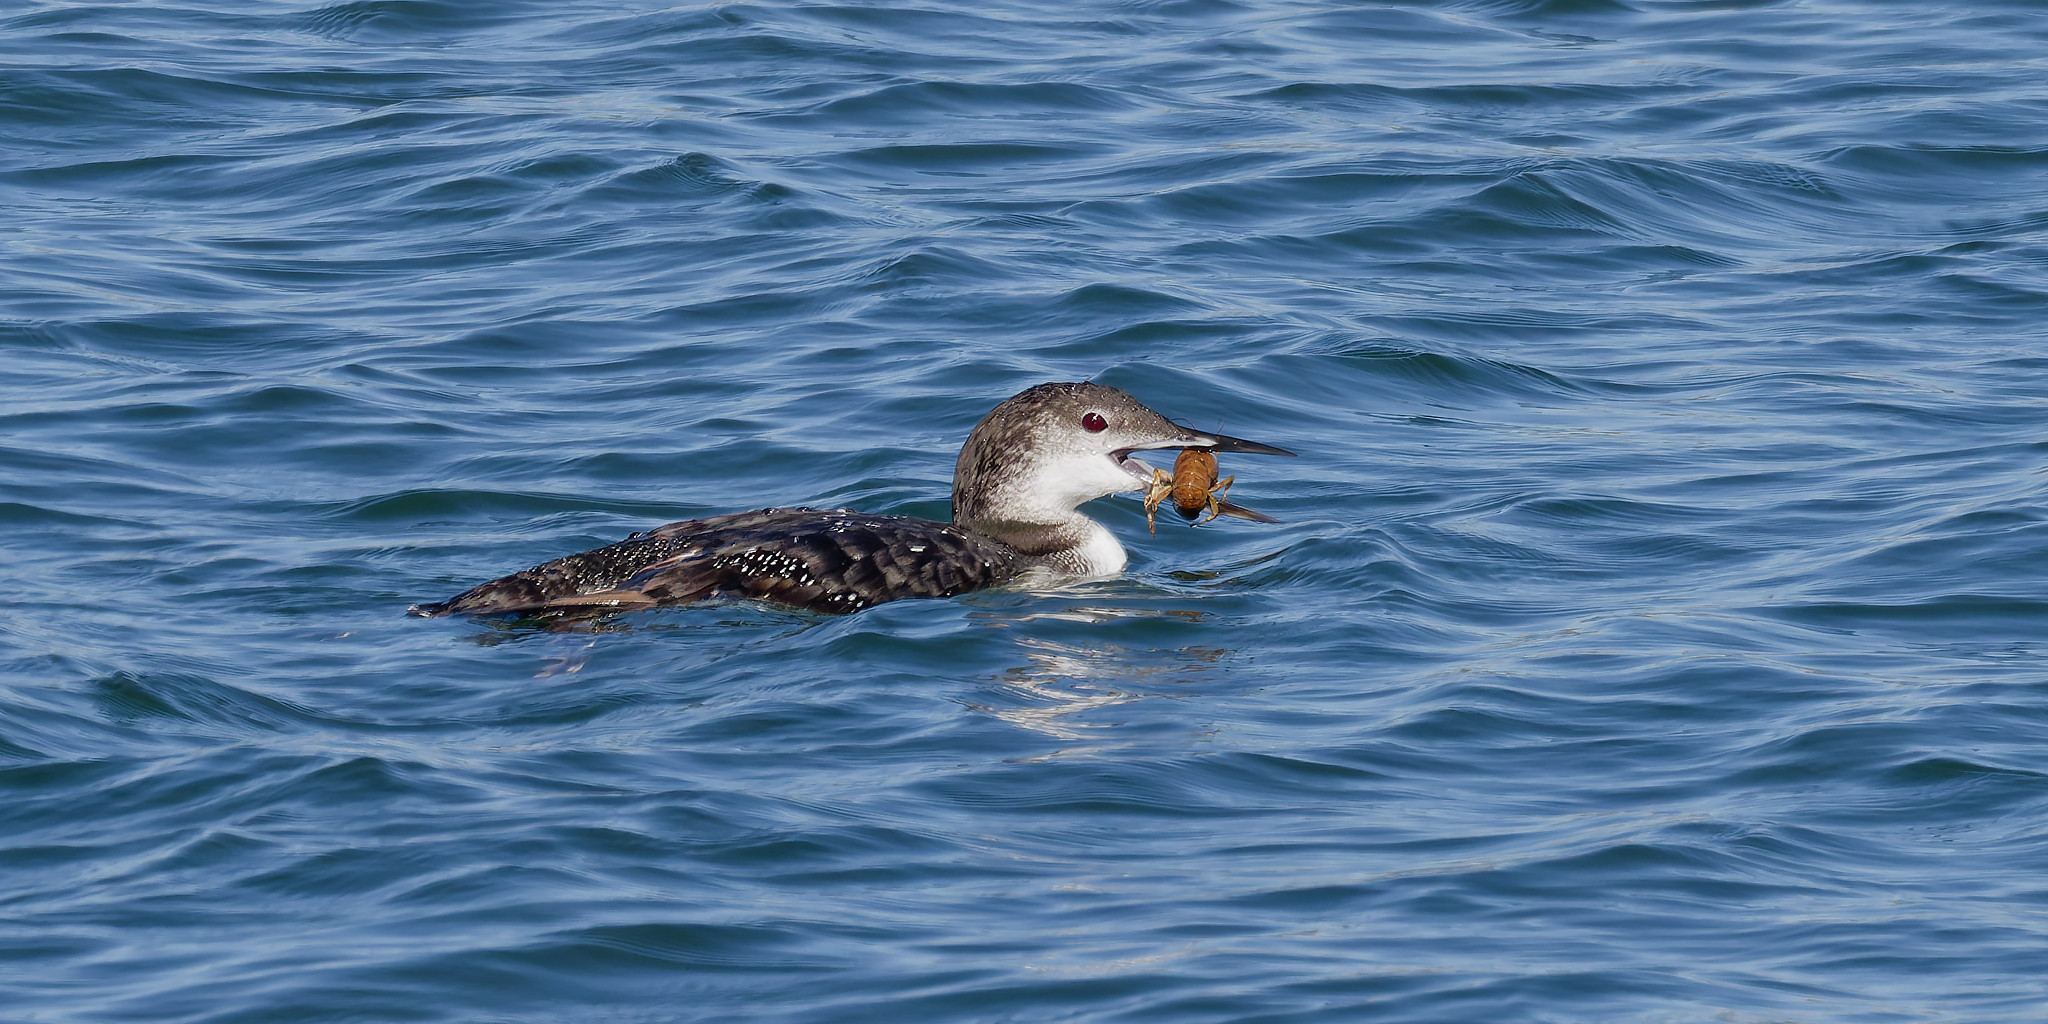
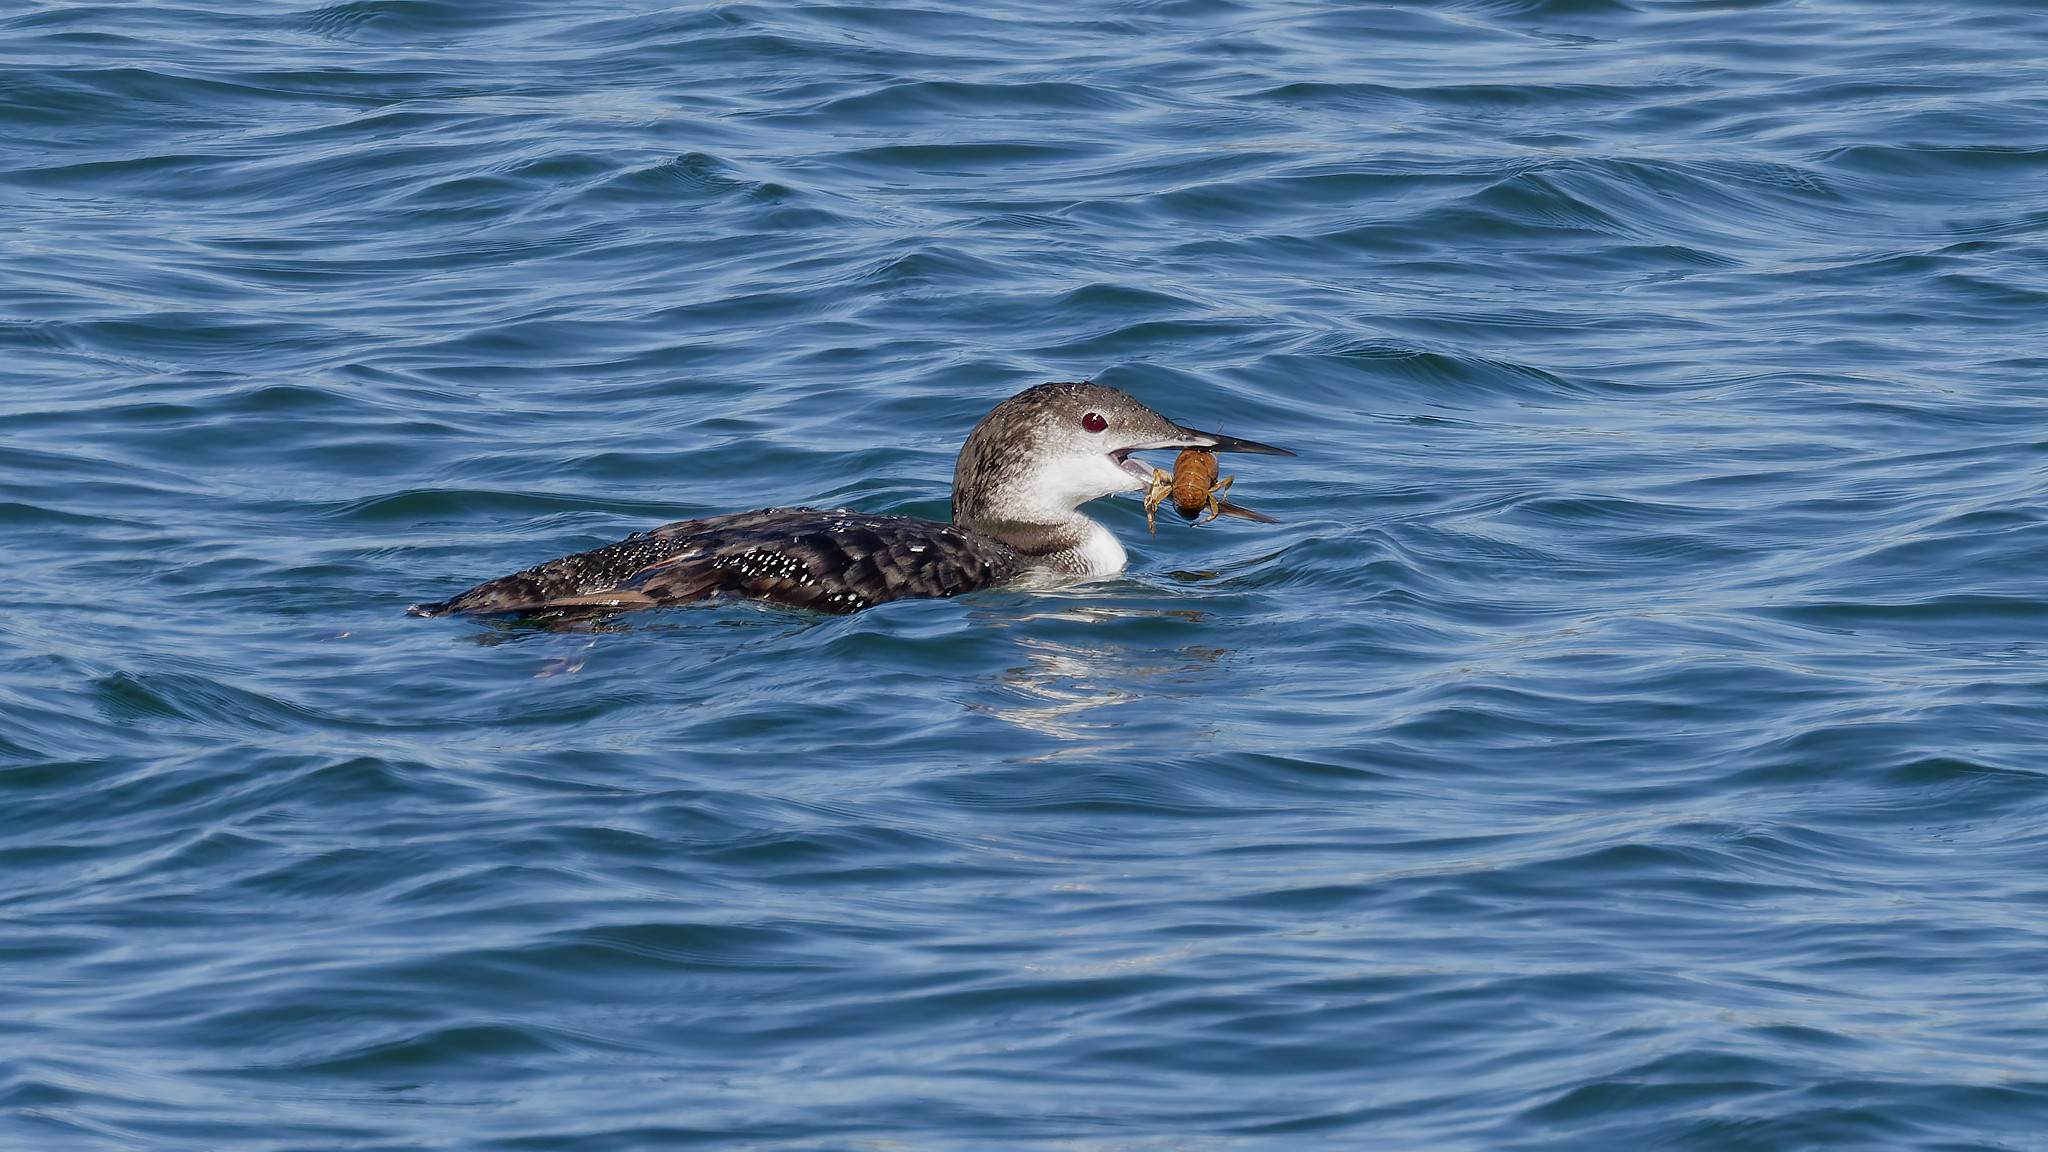
wood ducks etc

diff --git a/src/routes/birds/ducks/+page.svelte b/src/routes/birds/ducks/+page.svelte
@@ -141,6 +141,15 @@
 	import d139 from '$lib/images/birds/2026/10/2026-10-22-144024.jpg?enhanced';
 	import d140 from '$lib/images/birds/2026/10/2026-10-22-145153-1.jpg?enhanced';
 	import d141 from '$lib/images/birds/2026/10/2026-10-22-170501.jpg?enhanced';
+	import d142 from '$lib/images/birds/2026/10/2026-10-26-152453.jpg?enhanced';
+	import d143 from '$lib/images/birds/2026/10/2026-10-26-152613.jpg?enhanced';
+	import d144 from '$lib/images/birds/2026/10/2026-10-26-152309.jpg?enhanced';
+	import d145 from '$lib/images/birds/2026/10/2026-10-26-152744.jpg?enhanced';
+	import d146 from '$lib/images/birds/2026/10/2026-10-26-152929.jpg?enhanced';
+	import d147 from '$lib/images/birds/2026/10/2026-10-26-152241.jpg?enhanced';
+	import d148 from '$lib/images/birds/2026/10/2026-10-26-152301.jpg?enhanced';
+	import d149 from '$lib/images/birds/2026/10/2026-10-25-131139.jpg?enhanced';
+	import d150 from '$lib/images/birds/2026/10/2026-10-26-163026.jpg?enhanced';
 
 	export const imagesArray = [
 		// DUCKS
@@ -158,6 +167,10 @@
 			{
 				image: d118,
 				caption: '<strong>Bufflehead</strong> <br/>Newell County, Alberta. October, 2026'
+			},
+			{
+				image: d149,
+				caption: '<strong>Buffleheads</strong> <br/>Newell County, Alberta. October, 2026'
 			}
 		],
 		// CANVASBACK
@@ -295,7 +308,11 @@
 			{
 				image: d113,
 				caption:
-					'Male and female <strong>Mallards</strong> and young  <br/>Newell County, Alberta. October, 2026'
+					'Male and female <strong>Mallards</strong><br/>Newell County, Alberta. October, 2026'
+			},
+			{
+				image: d150,
+				caption: 'Male <strong>Mallard</strong> <br/>Newell County, Alberta. October, 2026'
 			}
 		],
 		// COMMON MERGANSER
@@ -478,6 +495,42 @@
 		// WOOD DUCK
 		[
 			{
+				image: d146,
+				caption:
+					'Female(L) and male(R) <strong>Wood Ducks</strong>. <br/>Inglewood Bird Sanctuary, Calgary. October, 2026'
+			},
+			{
+				image: d147,
+				caption:
+					'Male and female <strong>Wood Ducks</strong>. <br/>Inglewood Bird Sanctuary, Calgary. October, 2026'
+			},
+			{
+				image: d148,
+				caption:
+					'Male and female <strong>Wood Ducks</strong>. <br/>Inglewood Bird Sanctuary, Calgary. October, 2026'
+			},
+			{
+				image: d142,
+				caption:
+					'Female <strong>Wood Duck</strong>. <br/>Inglewood Bird Sanctuary, Calgary. October, 2026'
+			},
+			{
+				image: d143,
+				caption:
+					'A male <strong>Wood Duck</strong>. <br/>Inglewood Bird Sanctuary, Calgary. October, 2026'
+			},
+			{
+				image: d144,
+				caption:
+					'A male <strong>Wood Duck</strong>. <br/>Inglewood Bird Sanctuary, Calgary. October, 2026'
+			},
+			{
+				image: d145,
+				caption:
+					'A male <strong>Wood Duck</strong>. <br/>Inglewood Bird Sanctuary, Calgary. October, 2026'
+			},
+
+			{
 				image: d06,
 				caption:
 					'An eclipse male <strong>Wood Duck</strong>. <br/>Inglewood Bird Sanctuary, Calgary. July, 2026'
@@ -488,7 +541,8 @@
 					'An eclipse male <strong>Wood Duck</strong>. <br/>Inglewood Bird Sanctuary, Calgary. July, 2026'
 			}
 		],
-		// SWANS
+
+		// SWANS //////////////////////////////////////////////////////////////////////////////////////////
 
 		// TRUMPETER SWAN
 		[

diff --git a/src/lib/styling/app.css b/src/lib/styling/app.css
@@ -1,63 +1,70 @@
 html,
 body {
-  box-sizing: border-box;
-  margin: 0;
-  padding: 0;
-  overflow-y: hidden;
-  font-size: 20px;
+	box-sizing: border-box;
+	margin: 0;
+	padding: 0;
+}
+
+html {
+	overflow-y: auto;
+	scrollbar-gutter: stable;
 }
 
 *,
 *:before,
 *:after {
-  box-sizing: inherit;
+	box-sizing: inherit;
 }
 
 .top-matter {
-  display: flex;
-  font-family: cordelius;
-  font-size: 275%;
-  font-weight: bold;
-  height: 2em;
-  justify-content: space-between;
-  min-height: 2rem;
-  padding: 0.25em;
-  text-align: left;
+	display: flex;
+	font-family: cordelius;
+	font-size: 275%;
+	font-weight: bold;
+	height: 2em;
+	justify-content: space-between;
+	min-height: 2rem;
+	padding: 0.25em;
+	text-align: left;
 }
 
 .bird-type-page-links {
-  display: flex;
-  flex-wrap: wrap;
-  justify-content: space-evenly;
-  /* background: pink; */
-  width: 90%;
-  margin-inline: auto;
-  margin-top: 3em;
-  gap: 1em;
-  /* border: 3px solid green; */
+	display: flex;
+	flex-wrap: wrap;
+	justify-content: space-evenly;
+	/* background: pink; */
+	width: 90%;
+	margin-inline: auto;
+	margin-top: 3em;
+	gap: 1em;
+	/* border: 3px solid green; */
 }
 .bird-type-page-links a:link,
 .bird-type-page-links a:visited,
 .bird-type-page-links a:active {
-  text-decoration: none;
-  color: inherit;
+	text-decoration: none;
+	color: inherit;
 }
 .bird-type-page-links .photo-link {
-  font-family: "text";
-  margin-bottom: 2em;
-  text-align: center;
-  width: 15em;
-  max-width: 16em;
+	font-family: 'text';
+	margin-bottom: 2em;
+	text-align: center;
+	width: 15em;
+	max-width: 16em;
 }
 
 .albumTitle {
-  position: absolute;
-  font-family: cordelius;
-  font-size: 150%;
-  font-weight: bold;
-  top: clamp(10px, 0.875vw, 25px);
-  left: 50%;
-  text-align: center;
-  transform: translate(-50%, 0);
-  width: 70%;
-}/*# sourceMappingURL=app.css.map */
+	position: absolute;
+	font-family: cordelius;
+	font-size: 150%;
+	font-weight: bold;
+	top: clamp(10px, 0.875vw, 25px);
+	left: 50%;
+	text-align: center;
+	transform: translate(-50%, 0);
+	width: 70%;
+}
+
+/* .slider-container {
+	background: pink;
+} */

diff --git a/src/routes/+page.svelte b/src/routes/+page.svelte
@@ -10,44 +10,67 @@
 	<link rel="icon" href={favicon} />
 </svelte:head>
 
-<div class="outer">
-	<div class="container">
+<!-- <div class="outer"> -->
+<div class="container">
+	<header>
 		<HomeIcon />
-		<div class="home-page-links">
+	</header>
+	<div class="wrapper">
+		<div class="home-page-links-container">
 			<a href="/birds">
 				<div class="photo-link">
-					<enhanced:img src={homeBird} alt="where are you" />
+					<enhanced:img src={homeBird} alt="cedar waxwing" />
 					Birds...
 				</div>
 			</a>
 
 			<!-- <a href="/jeannette">
-				<div class="photo-link">
-					<enhanced:img src={homeJeannette} alt="where are you" />
-					Jeannette Morgan (n&eacute;e&nbsp;Blanc)
-				</div>
-			</a> -->
+					<div class="photo-link">
+						<enhanced:img src={homeJeannette} alt="where are you" />
+						Jeannette Morgan (n&eacute;e&nbsp;Blanc)
+					</div>
+				</a> -->
 		</div>
 	</div>
 </div>
 
+<!-- </div> -->
+
 <style>
-	.outer {
+	/* .outer {
 		background: white;
 		height: 100%;
 		margin: 0;
 		padding: 0;
+	} */
+
+	header {
+		/* background: pink; */
+		/* margin-bottom: 1em; */
 	}
 
 	.container {
+		display: flex;
+		flex-direction: column;
 		height: 100vh;
 	}
-	.home-page-links {
+
+	.wrapper {
+		/* background: pink; */
+		flex: 1;
+		display: flex;
+		flex-direction: column;
+		justify-content: center;
+	}
+
+	.home-page-links-container {
 		display: flex;
 		justify-content: space-evenly;
 		width: 90%;
 		margin-inline: auto;
-		margin-top: 4em;
+		/* background: yellow; */
+		/* margin-top: 4em; */
+		/* border: 1px solid pink; */
 
 		a:link,
 		a:visited,

diff --git a/src/routes/birds/crows/+page.svelte b/src/routes/birds/crows/+page.svelte
@@ -1,12 +1,24 @@
 <script module>
 	// crows, jays and magpies
 	import c01 from '$lib/images/birds/2026/09/2026-09-02-173122-PR.jpg?enhanced';
+	import c02 from '$lib/images/birds/2026/10/2026-10-24-162900.jpg?enhanced';
+	import c03 from '$lib/images/birds/2026/10/2026-10-24-163301.jpg?enhanced';
 
 	export const imagesArray = [
 		[
 			{
 				image: c01,
 				caption: '<strong>Black-billed Magpie</strong>. <br/>Three Hills, Alberta. September 2026'
+			}
+		],
+		[
+			{
+				image: c02,
+				caption: 'A <strong>Common Raven</strong>. <br/>Newell County, Alberta. October 2026'
+			},
+			{
+				image: c03,
+				caption: '<strong>Common Ravens</strong>. <br/>Newell County, Alberta. October 2026'
 			}
 		]
 	];

diff --git a/src/routes/birds/loons/+page.svelte b/src/routes/birds/loons/+page.svelte
@@ -2,6 +2,7 @@
 	// larks
 	import l01 from '$lib/images/birds/2026/10/2026-10-04-143041.jpg?enhanced';
 	import l02 from '$lib/images/birds/2026/10/2026-10-19-141910.jpg?enhanced';
+	import l03 from '$lib/images/birds/2026/10/2026-10-24-154354.jpg?enhanced';
 
 	export const imagesArray = [
 		// COMMON LOONS
@@ -10,6 +11,11 @@
 				image: l01,
 				caption:
 					'<strong> Common Loon</strong>, with dinner.<br/>Rolling Hills Reservoir, Newell County, Alberta. October, 2026.'
+			},
+			{
+				image: l02,
+				caption:
+					'<strong> Common Loon</strong><br/>Rolling Hills Reservoir, Newell County, Alberta. October, 2026.'
 			},
 			{
 				image: l02,

diff --git a/src/lib/styling/app.scss b/src/lib/styling/app.scss
@@ -1,10 +1,19 @@
+// *::-webkit-scrollbar {
+// 	background: yellow;
+// }
+
 html,
 body {
 	box-sizing: border-box;
 	margin: 0;
 	padding: 0;
-	overflow-y: hidden;
-	font-size: 20px;
+	// font-size: 20px;
+	// font-size: 1vw;
+}
+
+html {
+	overflow-y: auto;
+	scrollbar-gutter: stable;
 }
 
 *,
@@ -74,7 +83,7 @@ body {
 }
 
 .slider-container {
-	// background: pink;
+	background: pink;
 	// border: 2px solid red;
 	// font-size: 2.5rem;
 	// @media (max-width: 600px) {

diff --git a/src/lib/components/HomeIcon.svelte b/src/lib/components/HomeIcon.svelte
@@ -26,6 +26,7 @@
 		font-weight: bold;
 		line-height: 0.75em;
 		padding: 0.4em;
+		padding-bottom: 0.2em;
 		text-align: right;
 
 		.f-75 {
@@ -33,7 +34,7 @@
 		}
 		.dot {
 			color: gray;
-			margin-block: 5%;
+			// margin-block: 5%;
 		}
 		.dotCA {
 			margin-top: 0.25em;

diff --git a/src/lib/components/BirdsDropDown.svelte b/src/lib/components/BirdsDropDown.svelte
@@ -149,6 +149,8 @@
 		text-align: right;
 		background: white;
 		z-index: 10;
+		// border: 1px solid gray;
+		// overflow-y: auto;
 	}
 
 	.title {
